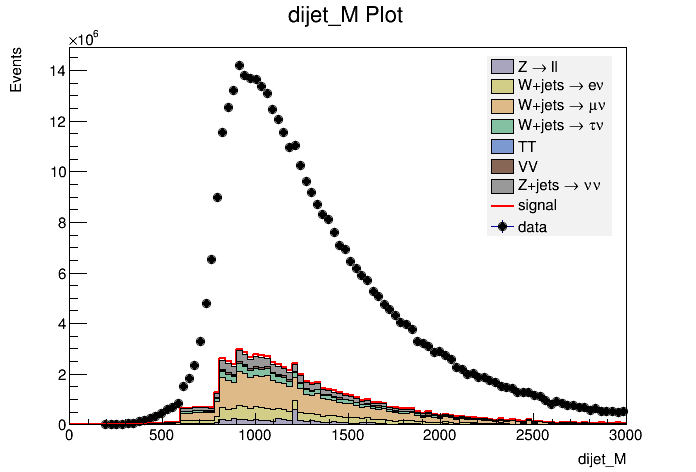
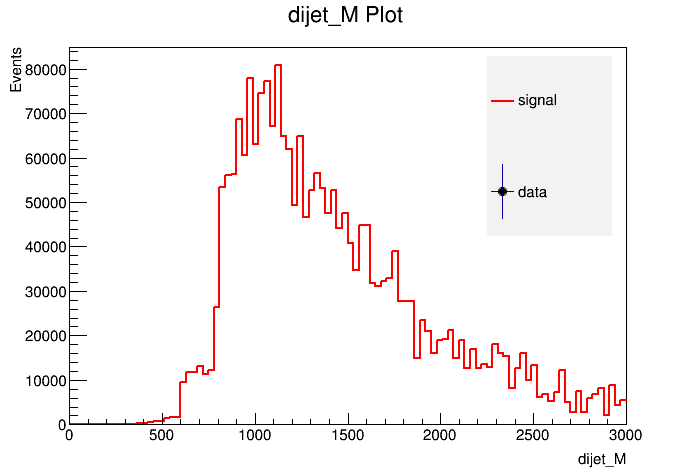
added option to plot signal, background or data

diff --git a/src/main.cpp b/src/main.cpp
@@ -3,7 +3,15 @@
 #include "analysis.h"
 #include <initializer_list>
 
-void produce_graphs() {
+void produce_graphs(bool plot_signal, bool plot_background, bool plot_data) {
+  if(plot_data == false){
+  std::vector<const char*> data;
+  }
+  if(plot_signal == false){
+  std::vector<const char*> mc_signal_data;
+  }
+  
+	
   DataChain* bg_zll = new DataChain(z_ll, z_ll_label, z_ll_legend);
   DataChain* bg_wjets_ev = new DataChain(wjets_ev, wjets_ev_label, wjets_ev_legend);
   DataChain* bg_wjets_muv = new DataChain(wjets_muv, wjets_muv_label, wjets_muv_legend);
@@ -15,6 +23,8 @@ void produce_graphs() {
   DataChain* mc_signal = new DataChain(mc_signal_data, mc_signal_label, mc_signal_legend);
 
   DataChain* data_chain = new DataChain(data, data_label, data_legend);
+  
+
 
   const char* weight = "total_weight_lepveto";
   const char* vars[5][4] = { 
@@ -36,15 +46,18 @@ void produce_graphs() {
     const char* x_max = vars[i][2];
 	//create vector of datachain pointers
   DataChain* bg_arr[] ={bg_zll, bg_wjets_ev, bg_wjets_muv, bg_wjets_tauv, bg_top, bg_vv, bg_zjets_vv}; // create array of pointers
-    std::vector<DataChain*> bg (bg_arr, bg_arr+ sizeof(bg_arr)/sizeof(DataChain*));
-    std::cout << bg[1];
+  if(plot_background == false){
+  bg_arr={};
+  }
+  std::vector<DataChain*> bg (bg_arr, bg_arr+ sizeof(bg_arr)/sizeof(DataChain*));
+    
 draw_stacked_histoplots(bg, mc_signal, data_chain, vars[i][0], selection, x_min, x_max, vars[i][3]);
   }
 }
 
 int main(int argc, char** argv) {
   TApplication theApp("tapp", &argc, argv);
-  produce_graphs();
+  produce_graphs(true,false,false);
 
   theApp.Run();
   

diff --git a/include/plotting.h b/include/plotting.h
@@ -32,13 +32,14 @@ void draw_stacked_histoplots(std::vector<DataChain*> bg_chains, DataChain* signa
   int colours[8] = {40, 41, 42, 30, 38, 28, 15, 49};
 
   std::cout << "setup canvas, legend and plot" << std::endl;
+   if( bg_chains[0] != NULL) { // checks for background input
   for(int i = 0; i < bg_chains.size(); i++) {
     TH1F* single_bg_histo = bg_chains[i]->histo_for_stack(false, variable_name, selection, x_min, x_max, colours[i]);
     hs.Add(single_bg_histo);
     legend->AddEntry(single_bg_histo, bg_chains[i]->legend, "f");
     std::cout << "histograms added to stack fine" << std::endl;
   }
-
+  }
   if(signal_chain != NULL) {
     TH1F* signal_histo = signal_chain->histo_for_stack(true, variable_name, selection, x_min, x_max, 0);
     hs.Add(signal_histo);
@@ -46,11 +47,12 @@ void draw_stacked_histoplots(std::vector<DataChain*> bg_chains, DataChain* signa
     std::cout << "signal added to stack fine" << std::endl;
   }
 
+  if(data != NULL) {
   TH1F* data_histo = data->draw_data(variable_name, selection, x_min, x_max);
-  hs.Add(data_histo);
   legend->AddEntry(data_histo, data->legend, "lep");
+  data_histo->Draw("SAME");
   std::cout << "data added to stack fine" << std::endl;
-
+  }
   std::string file_parts(variable_name);
   file_parts.append("_");
   file_parts.append(selection);
